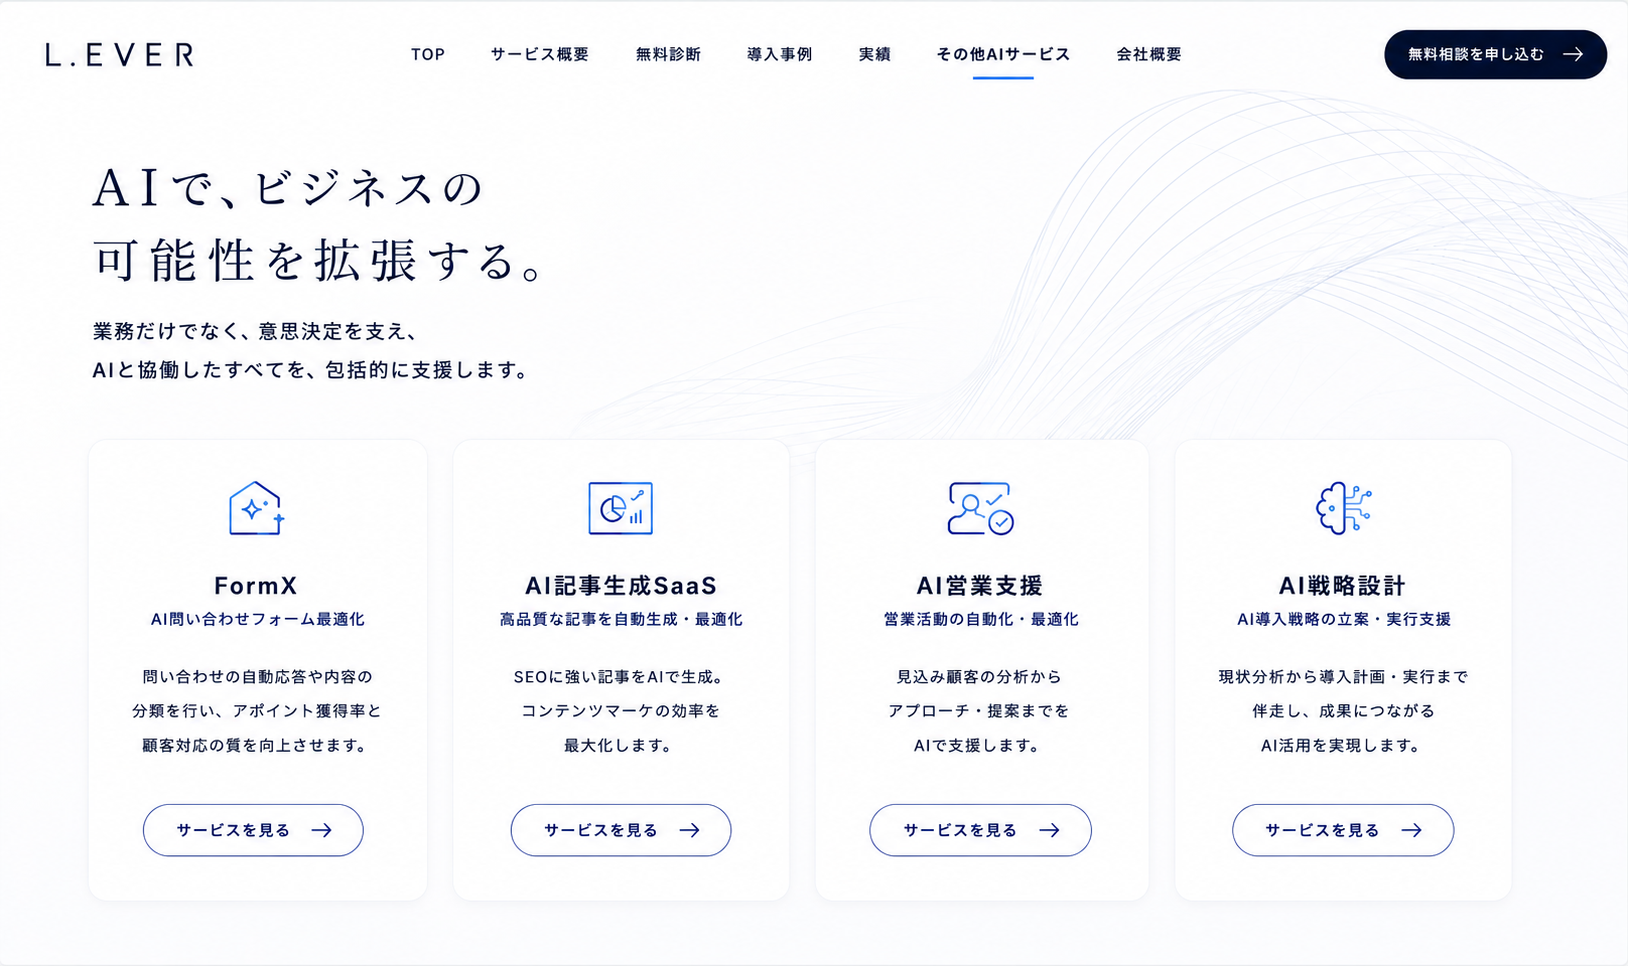
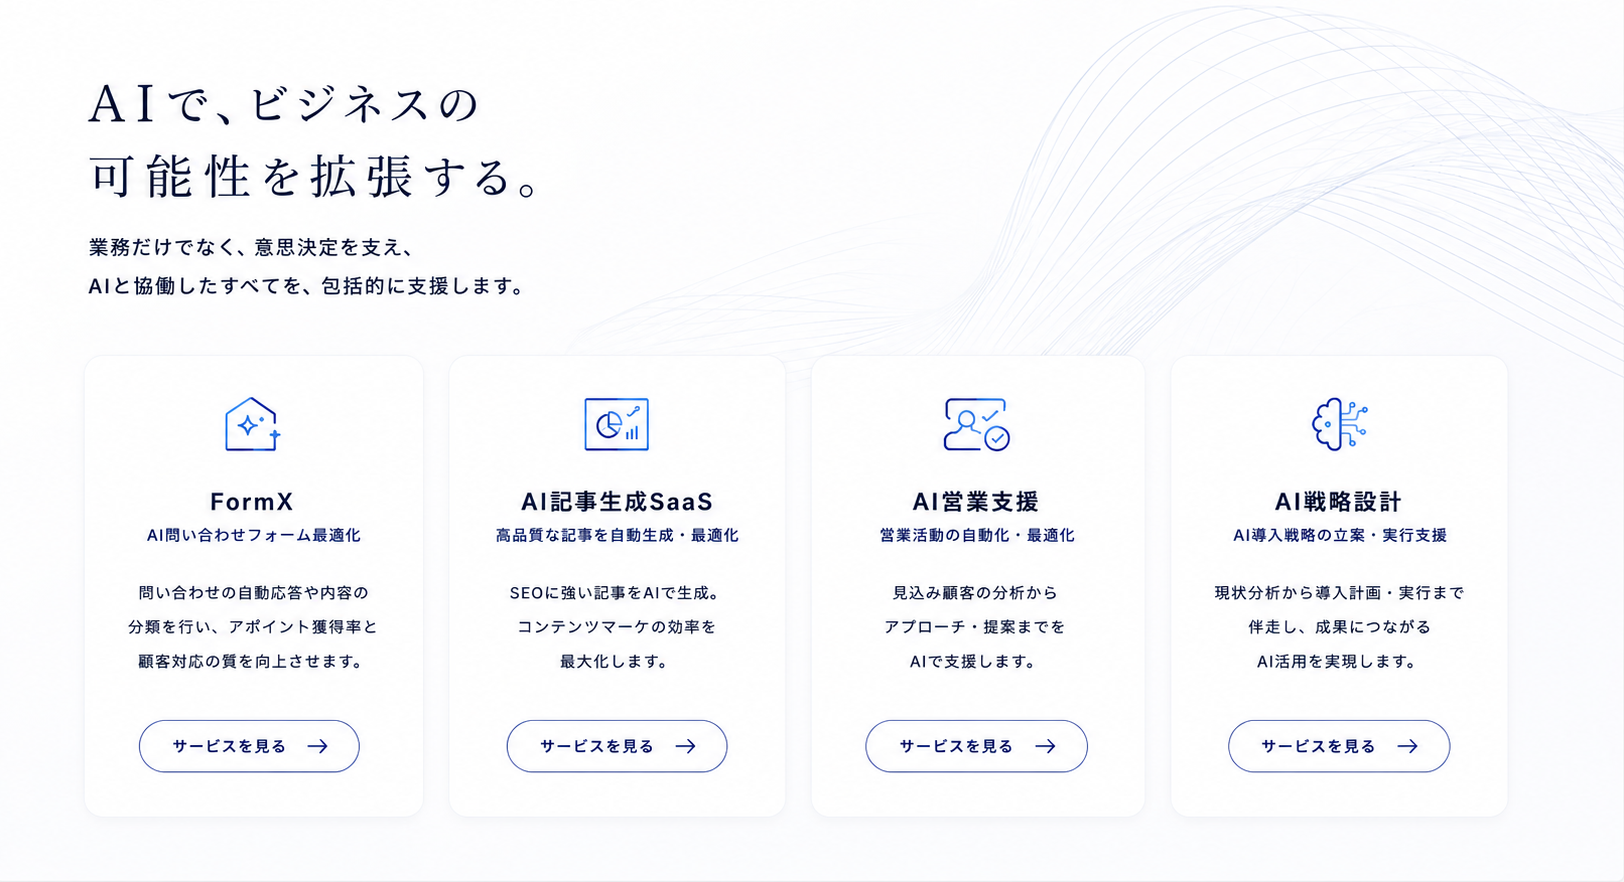
Add files via upload

diff --git a/L.EVER_HP/jisseki.html b/L.EVER_HP/jisseki.html
@@ -13,9 +13,8 @@
 	<div id="header"></div>
 
 	<main>
-		<img src="./img/object-glaf.png" >
+		<img src="img/jisseki-PC.png.jpg" >
 	</main>
-
 	<!-- フッター読み込み -->
 	<div id="footer"></div>
 	<script src="./js/main.js"></script>

diff --git a/L.EVER_HP/formX.html b/L.EVER_HP/formX.html
@@ -15,7 +15,7 @@
 	<div id="header"></div>
 
 	<main>
-		<img src="img/FormX.png" >
+		<img src="img/formX-pc.jpg" >
 			
 	</main>
 